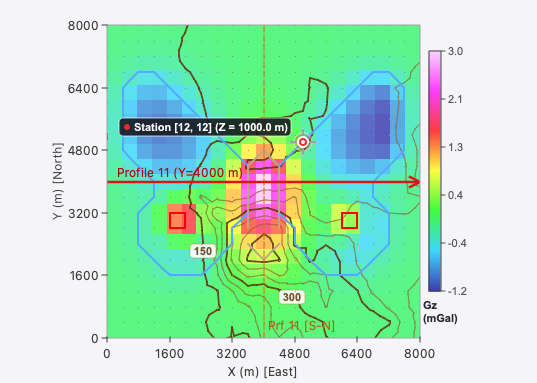
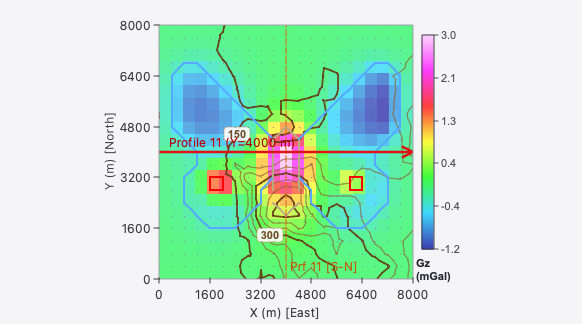
docs: render 3D view with software projection fallback in workspace screenshots

diff --git a/gui/src/GL3DView.cpp b/gui/src/GL3DView.cpp
@@ -333,6 +333,262 @@ void GL3DView::paintGL() {
     }
 }
 
+void GL3DView::paintEvent(QPaintEvent *event) {
+    if (isValid() && context()) {
+        QOpenGLWidget::paintEvent(event);
+        return;
+    }
+    QPainter painter(this);
+    paintSoftware(painter);
+}
+
+void GL3DView::paintSoftware(QPainter &painter) {
+    int w = width();
+    int h = height();
+    if (w <= 0 || h <= 0) return;
+
+    painter.save();
+    painter.setRenderHint(QPainter::Antialiasing, true);
+
+    // 1. Studio background gradient
+    QLinearGradient bgGrad(0, 0, 0, h);
+    bgGrad.setColorAt(0.0, QColor(246, 248, 252));
+    bgGrad.setColorAt(1.0, QColor(228, 233, 242));
+    painter.fillRect(0, 0, w, h, bgGrad);
+
+    if (!m_doc) {
+        painter.restore();
+        return;
+    }
+
+    const auto &model = m_doc->model();
+    double midX = (model.x_min_val() + model.x_max_val()) * 0.5;
+    double midY = (model.y_min_val() + model.y_max_val()) * 0.5;
+    double midZ = (model.z_min_val() + model.z_max_val()) * 0.5;
+    double maxDim = std::max({ model.x_max_val() - model.x_min_val(),
+                               model.y_max_val() - model.y_min_val(),
+                               model.z_max_val() - model.z_min_val() });
+    if (maxDim <= 0.0) maxDim = 10000.0;
+
+    double dist = maxDim * 1.8 / (m_zoom > 0.01f ? m_zoom : 1.0f);
+
+    auto project = [&](double x, double y, double z) {
+        double dx = x - midX;
+        double dy = y - midY;
+        double dz = z - midZ;
+
+        double azRad = m_azimuth * 3.14159265358979323846 / 180.0;
+        double rx = dx * std::cos(azRad) - dy * std::sin(azRad);
+        double ry = dx * std::sin(azRad) + dy * std::cos(azRad);
+        double rz = dz;
+
+        double pitchRad = (m_pitch - 90.0) * 3.14159265358979323846 / 180.0;
+        double px = rx;
+        double py = ry * std::cos(pitchRad) - rz * std::sin(pitchRad);
+        double pz = ry * std::sin(pitchRad) + rz * std::cos(pitchRad);
+
+        double cx = px + m_panX;
+        double cy = py + m_panY;
+        double cz = dist - pz;
+
+        double fov = 45.0 * 3.14159265358979323846 / 180.0;
+        double top = std::tan(fov * 0.5);
+        double scale = (cz > 10.0) ? (0.5 * h / (top * cz)) : (0.5 * h / (top * 10.0));
+
+        double sx = (w * 0.5) + cx * scale;
+        double sy = (h * 0.5) - cy * scale;
+
+        return std::make_pair(QPointF(sx, sy), pz);
+    };
+
+    // 2. Bounding Box
+    if (m_showBoundingBox) {
+        double x0 = model.x_min_val(), x1 = model.x_max_val();
+        double y0 = model.y_min_val(), y1 = model.y_max_val();
+        double z0 = model.z_min_val(), z1 = model.z_max_val();
+
+        QPointF c[8];
+        c[0] = project(x0, y0, z0).first;
+        c[1] = project(x1, y0, z0).first;
+        c[2] = project(x1, y1, z0).first;
+        c[3] = project(x0, y1, z0).first;
+        c[4] = project(x0, y0, z1).first;
+        c[5] = project(x1, y0, z1).first;
+        c[6] = project(x1, y1, z1).first;
+        c[7] = project(x0, y1, z1).first;
+
+        painter.setPen(QPen(QColor(160, 168, 185, 200), 1.2, Qt::SolidLine));
+        painter.drawLine(c[0], c[1]); painter.drawLine(c[1], c[2]);
+        painter.drawLine(c[2], c[3]); painter.drawLine(c[3], c[0]);
+        painter.drawLine(c[4], c[5]); painter.drawLine(c[5], c[6]);
+        painter.drawLine(c[6], c[7]); painter.drawLine(c[7], c[4]);
+        painter.drawLine(c[0], c[4]); painter.drawLine(c[1], c[5]);
+        painter.drawLine(c[2], c[6]); painter.drawLine(c[3], c[7]);
+
+        // Origin coordinate axes at (x0, y0, z0)
+        double axisLen = (x1 - x0) * 0.12;
+        QPointF pOrigin = c[0];
+        QPointF pAxX = project(x0 + axisLen, y0, z0).first;
+        QPointF pAxY = project(x0, y0 + axisLen, z0).first;
+        QPointF pAxZ = project(x0, y0, z0 + axisLen).first;
+
+        painter.setPen(QPen(QColor(220, 38, 38), 2.0));
+        painter.drawLine(pOrigin, pAxX);
+        painter.setPen(QPen(QColor(22, 163, 74), 2.0));
+        painter.drawLine(pOrigin, pAxY);
+        painter.setPen(QPen(QColor(37, 99, 235), 2.0));
+        painter.drawLine(pOrigin, pAxZ);
+    }
+
+    // 3. Active Profile Plane
+    if (m_showProfilePlane) {
+        int pIdx = m_doc->profileIndex();
+        double z0 = model.z_min_val();
+        double z1 = model.z_max_val();
+        QPolygonF poly;
+        if (m_doc->profileOrientation() == ProfileOrientation::EastWest) {
+            double y = model.yd_val(pIdx + 1);
+            poly << project(model.x_min_val(), y, z0).first
+                 << project(model.x_max_val(), y, z0).first
+                 << project(model.x_max_val(), y, z1).first
+                 << project(model.x_min_val(), y, z1).first;
+        } else {
+            double x = model.xd_val(pIdx + 1);
+            poly << project(x, model.y_min_val(), z0).first
+                 << project(x, model.y_max_val(), z0).first
+                 << project(x, model.y_max_val(), z1).first
+                 << project(x, model.y_min_val(), z1).first;
+        }
+        painter.setBrush(QColor(245, 158, 11, 45));
+        painter.setPen(QPen(QColor(217, 119, 6, 200), 1.5, Qt::DashLine));
+        painter.drawPolygon(poly);
+    }
+
+    // 4. 3D Polyhedral Bodies
+    if (m_meshDirty || m_bodyMeshes.empty()) {
+        m_bodyMeshes = m_doc->model().generate_body_meshes(-1, m_showOuterFacets);
+        m_meshDirty = false;
+    }
+
+    struct SortFacet {
+        QPointF p[3];
+        double depth;
+        QColor fill;
+        QColor edge;
+    };
+    std::vector<SortFacet> facetsToDraw;
+
+    double dBot = model.z_min_val();
+    double azRad = m_azimuth * 3.14159265358979323846 / 180.0;
+    double pitchRad = (m_pitch - 90.0) * 3.14159265358979323846 / 180.0;
+
+    // Directional light vector in camera space from upper-right-front
+    double lx = 0.40, ly = 0.65, lz = 0.65;
+    double lLen = std::sqrt(lx*lx + ly*ly + lz*lz);
+    lx /= lLen; ly /= lLen; lz /= lLen;
+
+    for (const auto &mesh : m_bodyMeshes) {
+        if (!mesh.isVisible) continue;
+
+        auto bc = mesh.color;
+
+        for (const auto &fct : mesh.facets) {
+            if (!m_showBottom &&
+                fct[0].z <= dBot + 1e-3 &&
+                fct[1].z <= dBot + 1e-3 &&
+                fct[2].z <= dBot + 1e-3) {
+                continue;
+            }
+
+            auto pt0 = project(fct[0].x, fct[0].y, fct[0].z);
+            auto pt1 = project(fct[1].x, fct[1].y, fct[1].z);
+            auto pt2 = project(fct[2].x, fct[2].y, fct[2].z);
+
+            double avgDepth = (pt0.second + pt1.second + pt2.second) / 3.0;
+
+            // Rotate normal into camera space
+            auto norm = fct.normal();
+            double nrx = norm.x * std::cos(azRad) - norm.y * std::sin(azRad);
+            double nry = norm.x * std::sin(azRad) + norm.y * std::cos(azRad);
+            double nrz = norm.z;
+
+            double npx = nrx;
+            double npy = nry * std::cos(pitchRad) - nrz * std::sin(pitchRad);
+            double npz = nry * std::sin(pitchRad) + nrz * std::cos(pitchRad);
+
+            double dot = std::abs(npx * lx + npy * ly + npz * lz);
+            double shade = 0.35 + 0.65 * dot;
+
+            int r = std::clamp(static_cast<int>(bc.r * shade), 0, 255);
+            int g = std::clamp(static_cast<int>(bc.g * shade), 0, 255);
+            int b = std::clamp(static_cast<int>(bc.b * shade), 0, 255);
+            int alpha = mesh.isTransparent ? std::clamp(static_cast<int>(mesh.alpha * 255), 30, 240) : 255;
+
+            QColor fillColor(r, g, b, alpha);
+            QColor edgeColor(static_cast<int>(r * 0.65), static_cast<int>(g * 0.65), static_cast<int>(b * 0.65), 210);
+
+            facetsToDraw.push_back({ {pt0.first, pt1.first, pt2.first}, avgDepth, fillColor, edgeColor });
+        }
+    }
+
+    // Sort back-to-front (smaller depth is further from eye)
+    std::sort(facetsToDraw.begin(), facetsToDraw.end(), [](const SortFacet &a, const SortFacet &b) {
+        return a.depth < b.depth;
+    });
+
+    for (const auto &f : facetsToDraw) {
+        painter.setPen(QPen(f.edge, 0.8));
+        painter.setBrush(f.fill);
+        QPointF pts[3] = { f.p[0], f.p[1], f.p[2] };
+        painter.drawPolygon(pts, 3);
+    }
+
+    // 5. Orientation Indicator HUD (Compass Tripod in bottom-left corner)
+    if (m_showOrientationIndicator) {
+        double cx = 52.0;
+        double cy = h - 52.0;
+        double rHud = 40.0;
+
+        painter.setPen(QPen(QColor(203, 213, 225), 1.0));
+        painter.setBrush(QColor(255, 255, 255, 215));
+        painter.drawRoundedRect(QRectF(cx - rHud, cy - rHud, rHud * 2.0, rHud * 2.0), 10.0, 10.0);
+
+        auto projectAxis = [&](double ax, double ay, double az) {
+            double azRad = m_azimuth * 3.14159265358979323846 / 180.0;
+            double rx = ax * std::cos(azRad) - ay * std::sin(azRad);
+            double ry = ax * std::sin(azRad) + ay * std::cos(azRad);
+            double rz = az;
+
+            double pitchRad = (m_pitch - 90.0) * 3.14159265358979323846 / 180.0;
+            double px = rx;
+            double py = ry * std::cos(pitchRad) - rz * std::sin(pitchRad);
+            return QPointF(cx + px * 24.0, cy - py * 24.0);
+        };
+
+        QPointF pCenter(cx, cy);
+        QPointF pX = projectAxis(1.0, 0.0, 0.0);
+        QPointF pY = projectAxis(0.0, 1.0, 0.0);
+        QPointF pZ = projectAxis(0.0, 0.0, 1.0);
+
+        // X axis - East (Red)
+        painter.setPen(QPen(QColor(220, 38, 38), 2.2));
+        painter.drawLine(pCenter, pX);
+        painter.drawText(pX + QPointF(2, 4), "E");
+
+        // Y axis - North (Green)
+        painter.setPen(QPen(QColor(22, 163, 74), 2.2));
+        painter.drawLine(pCenter, pY);
+        painter.drawText(pY + QPointF(2, 4), "N");
+
+        // Z axis - Up (Blue)
+        painter.setPen(QPen(QColor(37, 99, 235), 2.2));
+        painter.drawLine(pCenter, pZ);
+        painter.drawText(pZ + QPointF(2, 4), "Z");
+    }
+
+    painter.restore();
+}
+
 void GL3DView::drawBoundingBox() {
     glDisable(GL_LIGHTING);
     glColor3f(0.55f, 0.55f, 0.60f);

diff --git a/tests/test_gui_document.cpp b/tests/test_gui_document.cpp
@@ -1979,6 +1979,26 @@ TEST_F(GuiDocumentTest, GenerateReadmeScreenshots) {
     QPixmap pixMain(1440, 920);
     pixMain.fill(Qt::white);
     mw.render(&pixMain);
+
+    // Paint the 3D software rendering onto the 3D subwindow area of pixMain
+    for (auto *sub : mw.mdiArea()->subWindowList()) {
+        if (auto *glv = qobject_cast<GL3DView*>(sub->widget())) {
+            QPoint pos = glv->mapTo(&mw, QPoint(0, 0));
+            QPainter p(&pixMain);
+            p.translate(pos);
+            glv->paintSoftware(p);
+
+            // Also save standalone 3D turntable close-up screenshot
+            QSize s = (glv->width() >= 100 && glv->height() >= 100) ? glv->size() : QSize(700, 500);
+            QPixmap pix3D(s);
+            pix3D.fill(Qt::white);
+            QPainter p3D(&pix3D);
+            glv->paintSoftware(p3D);
+            saveTestScreenshot(pix3D, "mod3d_3d_turntable.png");
+            break;
+        }
+    }
+
     saveTestScreenshot(pixMain, "mod3d_main_workspace.png");
 
     // 2. Profile View close-up screenshot

diff --git a/gui/include/mod3d_gui/GL3DView.h b/gui/include/mod3d_gui/GL3DView.h
@@ -56,6 +56,10 @@ protected:
     void initializeGL() override;
     void resizeGL(int w, int h) override;
     void paintGL() override;
+    void paintEvent(QPaintEvent *event) override;
+
+public:
+    void paintSoftware(QPainter &painter);
 
     void mousePressEvent(QMouseEvent *event) override;
     void mouseMoveEvent(QMouseEvent *event) override;

diff --git a/README.md b/README.md
@@ -7,7 +7,7 @@
 [![C++20](https://img.shields.io/badge/C%2B%2B-20-00599C?logo=c%2B%2B)](https://en.cppreference.com/w/cpp/20)
 [![Qt 6](https://img.shields.io/badge/Qt-6.5+-41CD52?logo=qt)](https://www.qt.io/)
 [![CMake](https://img.shields.io/badge/CMake-3.20+-064F8C?logo=cmake)](https://cmake.org/)
-[![Tests](https://img.shields.io/badge/Tests-126%20Passing-brightgreen.svg)]()
+[![Tests](https://img.shields.io/badge/Tests-146%20Passing-brightgreen.svg)]()
 [![Platform](https://img.shields.io/badge/Platform-macOS%20%7C%20Linux%20%7C%20Windows-lightgrey.svg)]()
 
 **High-Performance Interactive 2.5D & 3D Forward Modeling and Inversion of Potential Fields**
@@ -60,11 +60,10 @@ Powered by Dr. Vladimír Pohánka's exact analytical polyhedral integration engi
 | <img src="docs/images/mod3d_profile_cross_section.png" alt="Profile Cross-Section" width="460"> | <img src="docs/images/mod3d_map_view.png" alt="Map View with Contours" width="460"> |
 | *Real-time gravity anomaly fitting (blue calculated vs. red measured crosses with RMS misfit) above geological polyhedra and topography.* | *Potential field color heatmap with station grid points, profile traverses, geological body footprints, and topography relief contours.* |
 
-<p align="center">
-  <img src="docs/images/mod3d_body_editor.png" alt="Settings Inspector Body Editor" width="380">
-  <br>
-  <em>Settings Inspector: Strict SI physical units ($\text{kg/m}^3$ and $\text{SI}$), 3D linear density gradients ($\nabla\rho$), remanent magnetization, and automated inversion controls.</em>
-</p>
+| 3D Perspective Turntable View | Settings Inspector Body Editor |
+| :---: | :---: |
+| <img src="docs/images/mod3d_3d_turntable.png" alt="3D Turntable View" width="460"> | <img src="docs/images/mod3d_body_editor.png" alt="Settings Inspector Body Editor" width="460"> |
+| *Interactive 3D faceted polyhedral bodies with active profile cut plane, bounding box, and orientation tripod.* | *Settings Inspector: Strict SI physical units ($\text{kg/m}^3$ and $\text{SI}$), 3D linear density gradients ($\nabla\rho$), remanent magnetization, and automated inversion controls.* |
 
 ---
 
